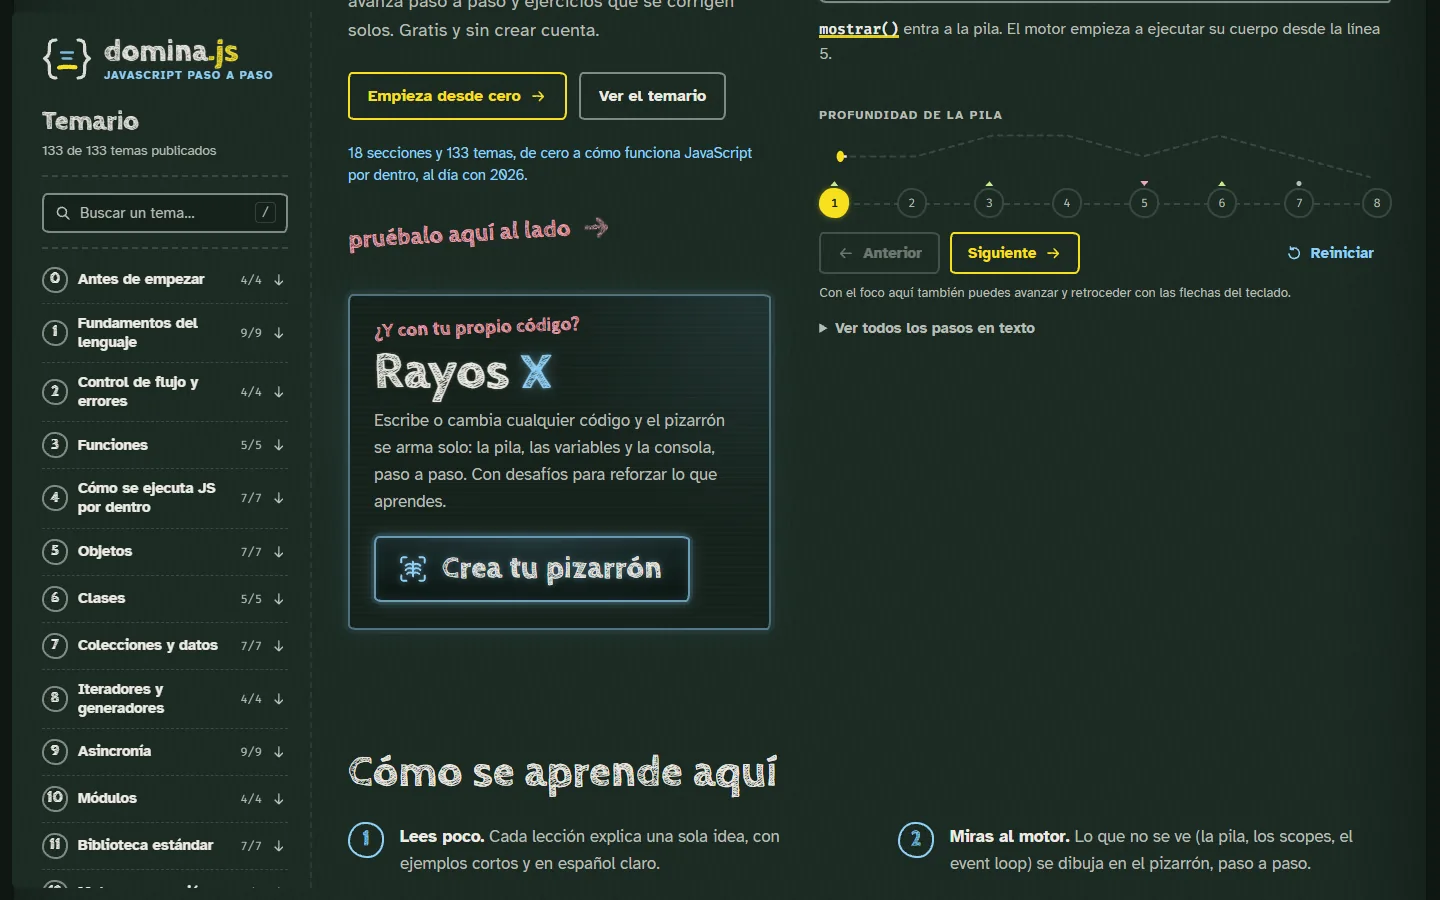
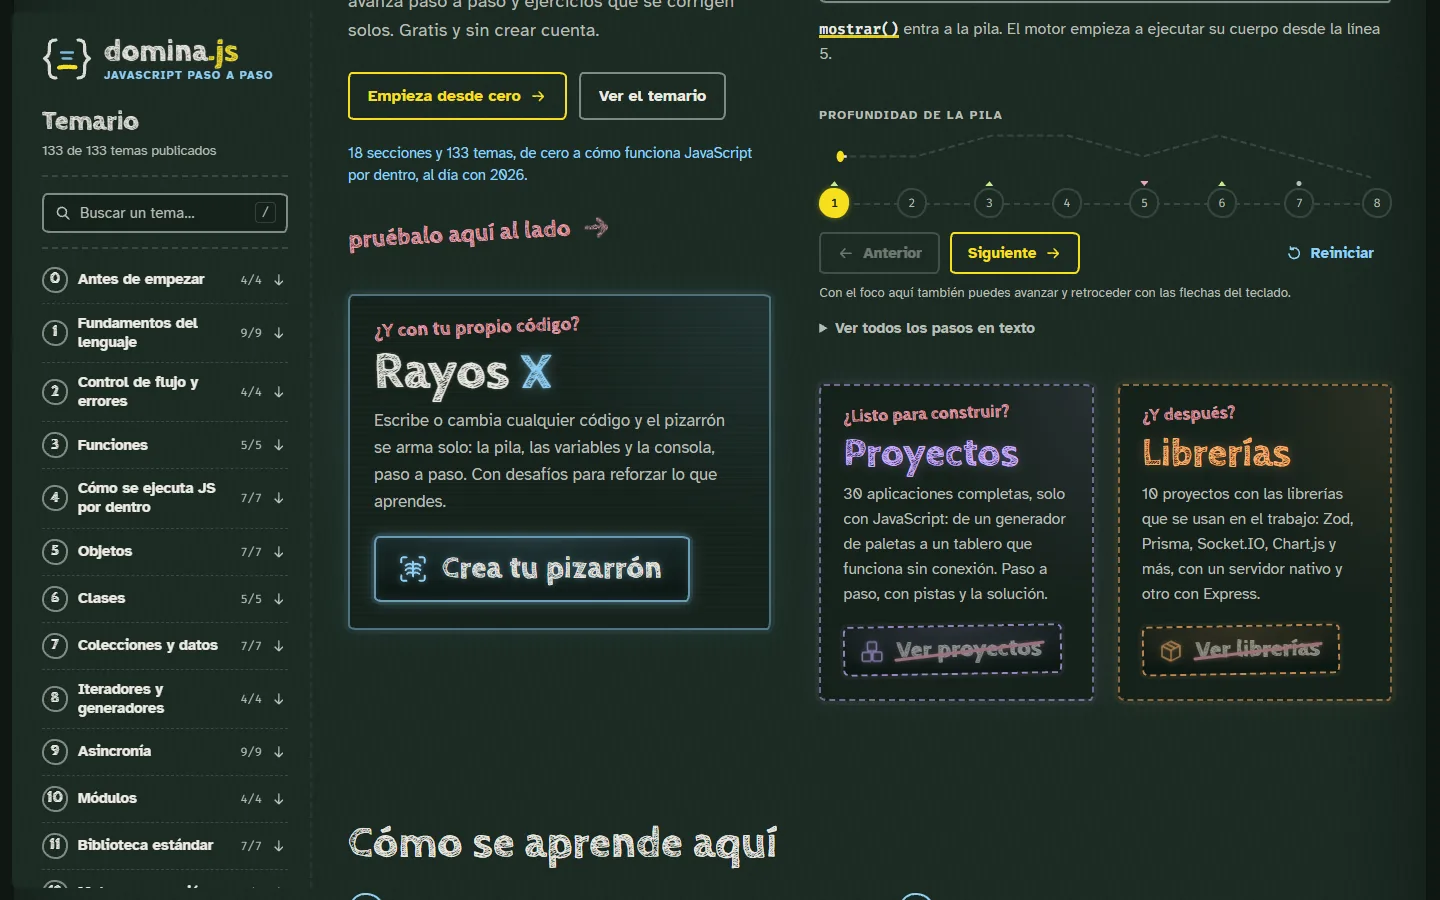
Portada con Proyectos y Librerías, y arreglos para Safari y Firefox
- Portada: tarjetas de Proyectos y Librerías debajo del pizarrón, con sus
  botones tachados y «Próximamente». BotonSeccion suma la variante grande
  y lleva los íconos adentro; el id del aviso no se repite.
- Sandbox: WebKit (Safari) no deja mover el foco por código dentro del
  iframe aislado; si focus() no lo mueve, se imita (activeElement, focus
  y focusin), con las mismas reglas de qué se puede enfocar.
- El <code> dentro de un <pre> usaba la fuente monospace del sistema en
  lugar de Fira Code (Courier en el Safari de Windows): ahora hereda.
- Canvas y SVG: la animación avanza según el tiempo, no según los cuadros
  (Safari reduce los cuadros por segundo en iframes de otro origen).

diff --git a/src/scripts/sandbox-pagina.ts b/src/scripts/sandbox-pagina.ts
@@ -22,6 +22,54 @@ function entornoPagina() {
   let error: string | null = null;
   const activos = new Map<number, 'una' | 'repite' | 'cuadro'>();
 
+  // WebKit (Safari) no deja mover el foco por código dentro de un iframe aislado de otro origen, aunque la
+  // página le preste el foco al iframe: focus() no hace nada. Para que los ejemplos y laboratorios de foco
+  // den lo mismo en todos los navegadores, si el foco real no se mueve se imita: focus() anota el elemento,
+  // document.activeElement lo devuelve y se disparan focus y focusin. Solo con elementos que un navegador
+  // dejaría enfocar: no los <div> sin tabindex, ni los deshabilitados, ocultos o dentro de un bloque inert.
+  (() => {
+    const focusNativo = HTMLElement.prototype.focus;
+    const blurNativo = HTMLElement.prototype.blur;
+    const activoReal = Object.getOwnPropertyDescriptor(Document.prototype, 'activeElement')!.get!;
+    let imitado: HTMLElement | null = null;
+    const enfocable = (el: HTMLElement) =>
+      el.isConnected &&
+      !(el as HTMLButtonElement).disabled &&
+      !el.closest('[inert]') &&
+      (typeof el.checkVisibility !== 'function' || el.checkVisibility()) &&
+      (el.hasAttribute('tabindex') || el.tabIndex >= 0 || el.isContentEditable);
+    const avisar = (el: HTMLElement, entra: boolean, otro: HTMLElement | null) => {
+      el.dispatchEvent(new FocusEvent(entra ? 'focus' : 'blur', { relatedTarget: otro }));
+      el.dispatchEvent(new FocusEvent(entra ? 'focusin' : 'focusout', { bubbles: true, relatedTarget: otro }));
+    };
+    HTMLElement.prototype.focus = function (this: HTMLElement, opciones?: FocusOptions) {
+      focusNativo.call(this, opciones);
+      if (activoReal.call(document) === this) {
+        imitado = null;
+        return;
+      }
+      if (imitado === this || !enfocable(this)) return;
+      const anterior = imitado;
+      imitado = this;
+      if (anterior) avisar(anterior, false, this);
+      avisar(this, true, anterior);
+    };
+    HTMLElement.prototype.blur = function (this: HTMLElement) {
+      blurNativo.call(this);
+      if (imitado !== this) return;
+      imitado = null;
+      avisar(this, false, null);
+    };
+    Object.defineProperty(Document.prototype, 'activeElement', {
+      configurable: true,
+      get(this: Document) {
+        const real = activoReal.call(this);
+        if (imitado && (real === null || real === this.body) && enfocable(imitado)) return imitado;
+        return real;
+      },
+    });
+  })();
+
   const mensaje = (e: unknown) => (e instanceof Error ? `${e.name}: ${e.message}` : `Uncaught ${String(e)}`);
   const fallar = (e: unknown) => {
     if (!error) error = mensaje(e);

diff --git a/src/styles/global.css b/src/styles/global.css
@@ -68,6 +68,10 @@
 /* Sin ligaduras: quien aprende tiene que ver <= y === tal como se escriben.
    Con !important porque el atajo `font:` de los componentes vuelve a activarlas (convertía ... en …) */
 code, pre, kbd, samp, output, textarea, .cm-content, .tarjeta { font-variant-ligatures: none !important; font-feature-settings: 'liga' 0, 'calt' 0; }
+/* El navegador le pone `font-family: monospace` a todo <code>, y dentro de un <pre> eso le gana a la
+   Fira Code del <pre>: cada sistema elegía su propia fuente (Consolas en Windows, Courier en el Safari
+   de Windows). Así el código usa siempre la fuente y el tamaño de su bloque. */
+pre code { font: inherit; }
 
 html {
   background: var(--edge);

diff --git a/DESIGN.md b/DESIGN.md
@@ -389,6 +389,7 @@ Ancho de la medida, encabezados como rótulo azul sobre una raya chalk-45 de 2px
 - **Rayos X (botón):** su propia estética de radiografía, distinta de los botones amarillos: fondo casi negro con un resplandor azul arriba, borde azul al 70% con anillo y halo azules, ícono de costilla en un visor y el texto en la letra de tiza con un brillo azul. Al pasar el mouse, una franja de luz barre el botón (sin animación con movimiento reducido). En la navegación va pequeño y apenas girado, y en la página actual cambia el azul por amarillo. En la portada y al final de cada Reto del motor va grande.
 - **Proyectos (botón):** la misma estética de Rayos X, en lila, con un ícono de tres bloques apilados y apenas girado hacia el otro lado. Mientras la sección no existe, el borde es discontinuo, el ícono y el texto quedan al 60% y una raya de tiza rosa tacha la palabra. No es un enlace: al pasar el mouse o al enfocarlo aparece debajo una nota de tiza rosa con «Próximamente». El plan de la sección está en `docs/PROYECTOS.md`.
 - **Librerías (botón):** el mismo componente que Proyectos (`BotonSeccion`), en tiza naranja y con un paquete de npm como ícono. También tachado, con «Próximamente», hasta que exista la sección de proyectos con librerías. Cada sección propia tiene su color: azul para Rayos X, lila para Proyectos y naranja para Librerías.
+- **Tarjetas de Proyectos y Librerías (portada):** debajo del pizarrón de la portada, dos tarjetas lado a lado (una sobre otra en el teléfono), con la misma idea que la de Rayos X: una pregunta a mano en tiza rosa («¿Listo para construir?», «¿Y después?»), el título en letra de tiza con el color de la sección y un leve halo, un párrafo en chalk-70 y el botón grande de la sección. Mientras la sección no existe, el borde es discontinuo y el botón va tachado con «Próximamente».
 - **Rayos X (página):** el título lleva la X en azul con resplandor. Tres pasos con número en óvalo azul: elegir un pizarrón (tarjetas; la elegida con borde y tinte azules), cambiarlo y ejecutarlo (el editor de los laboratorios, con marco azul) y los desafíos (tarjetas con número en óvalo naranja, verde al superarlas). El desafío activo es un recuadro naranja con sus objetivos: un círculo vacío, rojo si no se cumple o lima si se cumple. Al superarlo todo se vuelve lima.
 - **Invitación a Rayos X (Reto del motor):** al final del reto, antes de «Continúa con»: «Crea tu propio pizarrón y sigue practicando con los desafíos de» en letra de tiza, una flecha curva de tiza rosa y el botón grande.
 - **Reportar un problema:** en el pie, después del autor y del ícono de GitHub, separado por un punto medio: «Reportar un problema» en chalk-70, subrayado chalk-45 y amarillo al pasar. Al final de cada lección y de cada reto, tras una raya discontinua: «¿Viste un error en esta lección? **Avísame en GitHub** y lo corrijo», en 0.9rem chalk-70 con el enlace en chalk 700. Los dos se abren en otra pestaña.

diff --git a/README.md b/README.md
@@ -54,7 +54,7 @@ Cada uno se comprueba mirando lo que pasa en el pizarrón (la pila, las colas, l
 
 El intérprete corre en un Web Worker y no usa `eval`. Entiende `setTimeout`, `clearTimeout`, `queueMicrotask`, promesas (`then`, `catch`, `finally`, `Promise.all`, `race` y `allSettled`) y `async`/`await`. Sus sentencias son generadores, así que un `await` puede pausar una función a la mitad, y el event loop la retoma después. El orden de la consola se comprobó contra Node, y el tiempo es simulado: un temporizador de 1000 ms no hace esperar un segundo. Si el código usa algo que todavía no entiende (clases, generadores, `setInterval`, desestructuración…), dice qué es y en qué línea. Corta los bucles infinitos a los 400 pasos y desborda la pila a las 12 llamadas, para que el desborde se pueda ver. A Rayos X se llega desde un botón propio en la navegación, desde la portada y desde el final de cada Reto del motor.
 
-![La tarjeta de Rayos X en la portada, con el botón «Crea tu pizarrón»](docs/capturas/portada-rayos-x.webp)
+![La tarjeta de Rayos X en la portada, con el botón «Crea tu pizarrón», y al lado las tarjetas de Proyectos y Librerías, todavía con «Próximamente»](docs/capturas/portada-rayos-x.webp)
 
 ### Ejercicios que no son solo «escribe y ejecuta»
 
